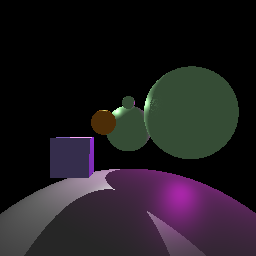
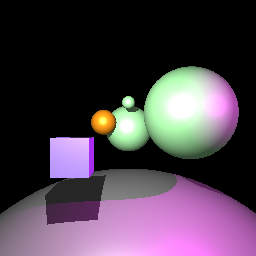
seems working without translation

diff --git a/cs488/A4/Primitive.cpp b/cs488/A4/Primitive.cpp
@@ -56,7 +56,7 @@ double checkTriInterct(const Ray ray, glm::vec3 P0, glm::vec3 P1, glm::vec3 P2) 
 	double gamma = glm::determinant(D2)/glm::determinant(D);
 	double t = glm::determinant(D3)/glm::determinant(D);
 
-	if((t>0) && (beta >= 0) && (gamma >= 0) && (beta + gamma <= 1) ){
+	if((t>exp_test_glo_2) && (beta >= 0) && (gamma >= 0) && (beta + gamma <= 1) ){
         //cout<<"found"<<t<<endl;
 		return t;
     }
@@ -88,30 +88,28 @@ Sphere::~Sphere()
 }
 
 intersection Sphere::checkIntersection(const Ray & ray){
-    std::cout << " Cube Sphere called"<<std::endl;
+
     glm::vec3 centerPos =  glm::vec3(0.0f, 0.0f, 0.0f);
     float a = glm::dot(ray.direction, ray.direction);
     float b = 2 * glm::dot(glm::vec3(ray.direction), glm::vec3(ray.start) - centerPos);
     float c = glm::dot( glm::vec3(ray.start) - centerPos,  glm::vec3(ray.start) - centerPos) - 1 * 1;
 
     double roots[2];
-   // std::cout << " NonhierBox check try solve " <<a<< " " << b << " " << c << std::endl;
     size_t res = quadraticRoots(a, b, c, roots);
-    //std::cout << " NonhierBox check slove res:  " <<res<< std::endl;
     intersection int_res = {};
     if(!rootsValidation(res, roots)){
         int_res.t = -1;// for no intesection
     }else{
        
         if(std::min(roots[0], roots[1]) < 0){
-            int_res.t = std::max(roots[0], roots[1]);
+            int_res.t = (float)std::max(roots[0], roots[1]);
         }else{
-            int_res.t =  std::min(roots[0], roots[1]);
+            int_res.t =  (float)std::min(roots[0], roots[1]);
         }
-        int_res.norm_v = glm::vec3(glm::normalize(ray.start + float(int_res.t) * (ray.direction - ray.start)));
+        int_res.norm_v = glm::vec3(glm::normalize( glm::vec3(ray.start + float(int_res.t) * (ray.direction)) - centerPos ));
+        //int_res.norm_v = glm::vec3(glm::normalize(ray.start + float(int_res.t) * (ray.direction)));
         //std::cout << " NonhierBox check slove res:  " <<res<< " " << int_res.t << " " << glm::to_string(int_res.norm_v)<<std::endl;
     }
-
     return int_res;
 
 }
@@ -120,26 +118,55 @@ Cube::~Cube()
 }
 
 intersection Cube::checkIntersection(const Ray & ray){
-    std::cout << " Cube check called"<<std::endl;
-    glm::vec4 centerPos =  glm::vec4(0.0f, 0.0f, 0.0f, 0.0f);
-    double a = glm::dot(ray.direction - ray.start, ray.direction - ray.start);
-    double b = 2 * glm::dot(ray.direction - ray.start, ray.start - centerPos);
-    double c = glm::dot(ray.start - centerPos, ray.start - centerPos) - 1;
 
-    double roots[2];
-    size_t res = quadraticRoots(a, b, c, roots);
+    glm::vec3 m_pos =  glm::vec3(0.0f, 0.0f, 0.0f);
+    double m_size = 1.0f;
+    static glm::vec3 cube_vertex_nonhierBox[8];
+    cube_vertex_nonhierBox[0] = m_pos;
+    cube_vertex_nonhierBox[1] = m_pos + (float)m_size * glm::vec3(1.0f, 0.0f, 0.0f);
+    cube_vertex_nonhierBox[2] = m_pos + (float)m_size * glm::vec3(1.0f, 0.0f, 1.0f);
+    cube_vertex_nonhierBox[3] = m_pos + (float)m_size * glm::vec3(0.0f, 0.0f, 1.0f);
+    cube_vertex_nonhierBox[4] = m_pos + (float)m_size * glm::vec3(0.0f, 1.0f, 0.0f);
+    cube_vertex_nonhierBox[5] = m_pos + (float)m_size * glm::vec3(1.0f, 1.0f, 0.0f);
+    cube_vertex_nonhierBox[6] = m_pos + (float)m_size * glm::vec3(1.0f, 1.0f, 1.0f);
+    cube_vertex_nonhierBox[7] = m_pos + (float)m_size * glm::vec3(0.0f, 1.0f, 1.0f);
+    // check all 12 tri
     intersection int_res = {};
-    if(!rootsValidation(res, roots)){
-        int_res.t = -1;// for no intesection
-    }else{
-        if(std::min(roots[0], roots[1]) < 0){
-            int_res.t = std::max(roots[0], roots[1]);
-        }else{
-            int_res.t =  std::min(roots[0], roots[1]);
-        }
-        int_res.norm_v = glm::vec3(glm::normalize(ray.start + float(int_res.t) * (ray.direction - ray.start)));
+    int_res.t = -1;
+    for (int i = 0; i < 11; i++){
+        double  temp_res = checkTriInterct(ray, cube_vertex_nonhierBox[std::get<0>(cubeIndexPair[i])],
+                                        cube_vertex_nonhierBox[std::get<1>(cubeIndexPair[i])],
+                                        cube_vertex_nonhierBox[std::get<2>(cubeIndexPair[i])]);
+        if(temp_res >= exp_test_glo_2 && (int_res.t == -1 || (temp_res < int_res.t ))){
+            int_res.t = temp_res;
+            switch (i){
+                case (0):
+                case (1):
+                    int_res.norm_v = glm::vec3(0.0f, -1.0f, 0.0f);
+                    break;
+                case (2):
+                case (3):
+                    int_res.norm_v = glm::vec3(-1.0f, 0.0f, 0.0f);
+                    break;
+                case (4):
+                case (5):
+                    int_res.norm_v = glm::vec3(0.0f, 0.0f, -1.0f);
+                    break;
+                case (6):
+                case (7):
+                    int_res.norm_v = glm::vec3(1.0f, 0.0f, 0.0f);
+                    break;
+                case (8):
+                case (9):
+                    int_res.norm_v = glm::vec3(0.0f, 0.0f, 1.0f);
+                    break;
+                case (10):
+                case (11):
+                    int_res.norm_v = glm::vec3(0.0f, 1.0f, 0.0f);
+                    break;
+            }
+        } 
     }
-
     return int_res;
 
 }
@@ -148,16 +175,13 @@ NonhierSphere::~NonhierSphere()
 }
 
 intersection NonhierSphere::checkIntersection(const Ray & ray){
-    //cout << " will ray trace " << glm::to_string(ray.start) << " dir" << glm::to_string(ray.direction) <<endl;
     glm::vec3 centerPos =  m_pos;
     float a = glm::dot(ray.direction, ray.direction);
     float b = 2 * glm::dot(glm::vec3(ray.direction), glm::vec3(ray.start) - centerPos);
     float c = glm::dot( glm::vec3(ray.start) - centerPos,  glm::vec3(ray.start) - centerPos) - m_radius * m_radius;
 
     double roots[2];
-   // std::cout << " NonhierBox check try solve " <<a<< " " << b << " " << c << std::endl;
     size_t res = quadraticRoots(a, b, c, roots);
-    //std::cout << " NonhierBox check slove res:  " <<res<< std::endl;
     intersection int_res = {};
     if(!rootsValidation(res, roots)){
         int_res.t = -1;// for no intesection
@@ -230,7 +254,6 @@ intersection NonhierBox::checkIntersection(const Ray & ray){
             }
         } 
     }
-
     return int_res;
 
 }

diff --git a/cs488/A4/Mesh.cpp b/cs488/A4/Mesh.cpp
@@ -8,6 +8,37 @@
 // #include "cs488-framework/ObjFileDecoder.hpp"
 #include "Mesh.hpp"
 
+
+double checkTriInterctV2(const Ray ray, glm::vec3 P0, glm::vec3 P1, glm::vec3 P2) {
+    glm::vec3 a = glm::vec3(ray.start);
+    glm::vec3 b = glm::vec3(ray.direction);
+    glm::vec3 base1 = P1 - P0;
+    glm::vec3 base2 = P2 - P0;
+    glm::vec3 base3 = -1.0f * b;
+    glm::vec3 R = a - P0;
+
+    glm::mat3 D{base1, base2, base3};
+    D = glm::transpose(D);
+    glm::mat3 D1{R, base2, base3};
+    D1 = glm::transpose(D1);
+    glm::mat3 D2{base1, R, base3};
+    D2 = glm::transpose(D2);
+    glm::mat3 D3{base1, base2, R};	
+    D3 = glm::transpose(D3);
+	double beta = glm::determinant(D1)/glm::determinant(D);
+	double gamma = glm::determinant(D2)/glm::determinant(D);
+	double t = glm::determinant(D3)/glm::determinant(D);
+
+	if((t>0.01) && (beta >= 0) && (gamma >= 0) && (beta + gamma <= 1) ){
+        //cout<<"found"<<t<<endl;
+		return t;
+    }
+	else
+		return -1;
+}
+
+
+
 Mesh::Mesh( const std::string& fname )
 	: m_vertices()
 	, m_faces()
@@ -50,5 +81,17 @@ std::ostream& operator<<(std::ostream& out, const Mesh& mesh)
 }
 intersection Mesh::checkIntersection(const Ray & ray){
 	intersection int_res = {};
+	int_res.t = -1;
+	for(Triangle tri : m_faces){
+		glm::vec3 P0 = m_vertices.at(tri.v1);
+		glm::vec3 P1 = m_vertices.at(tri.v2);
+		glm::vec3 P2 = m_vertices.at(tri.v3);
+		double  temp_res  = checkTriInterctV2(ray, P0, P1, P2);
+		if(temp_res >= 0.01 && (int_res.t == -1 || (temp_res < int_res.t ))){
+			//cout<<"found"<<endl;
+            int_res.t = temp_res;
+			int_res.norm_v = glm::normalize(glm::cross(P1- P0, P2 - P0));
+		}
+	}
 	return int_res;
 }
